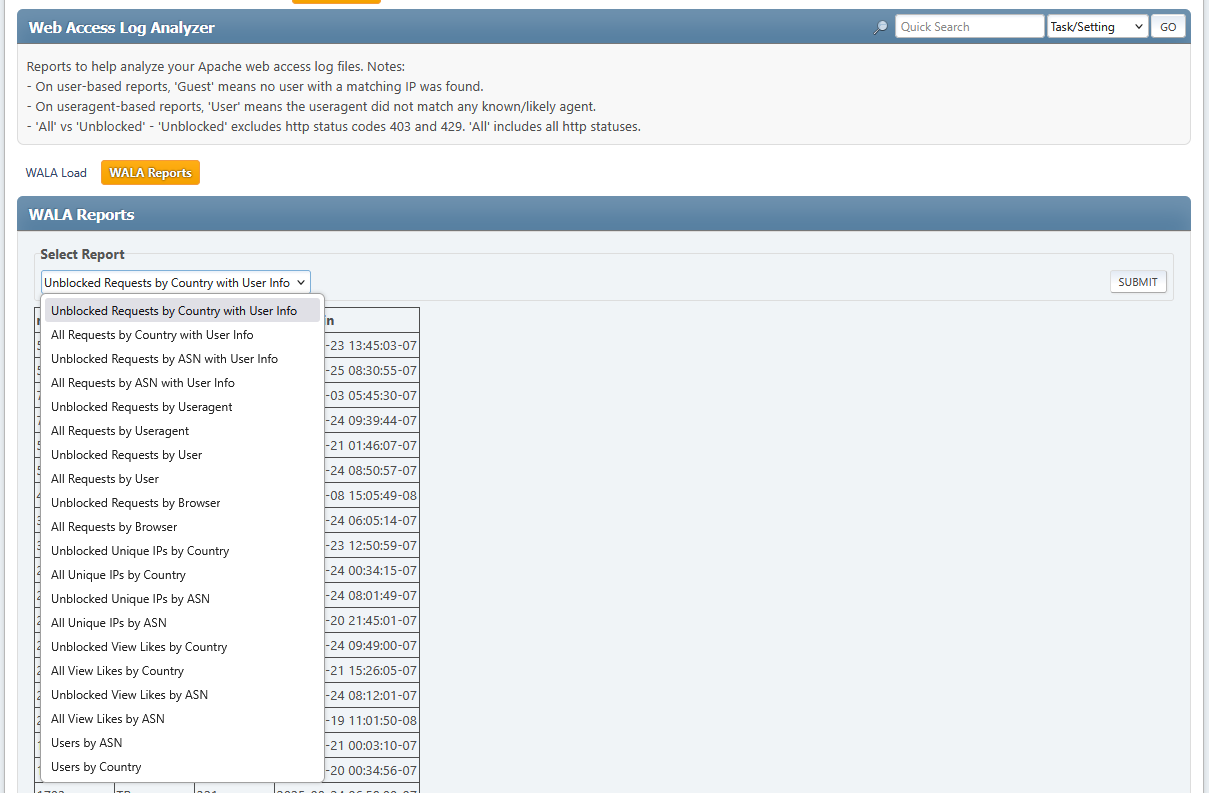
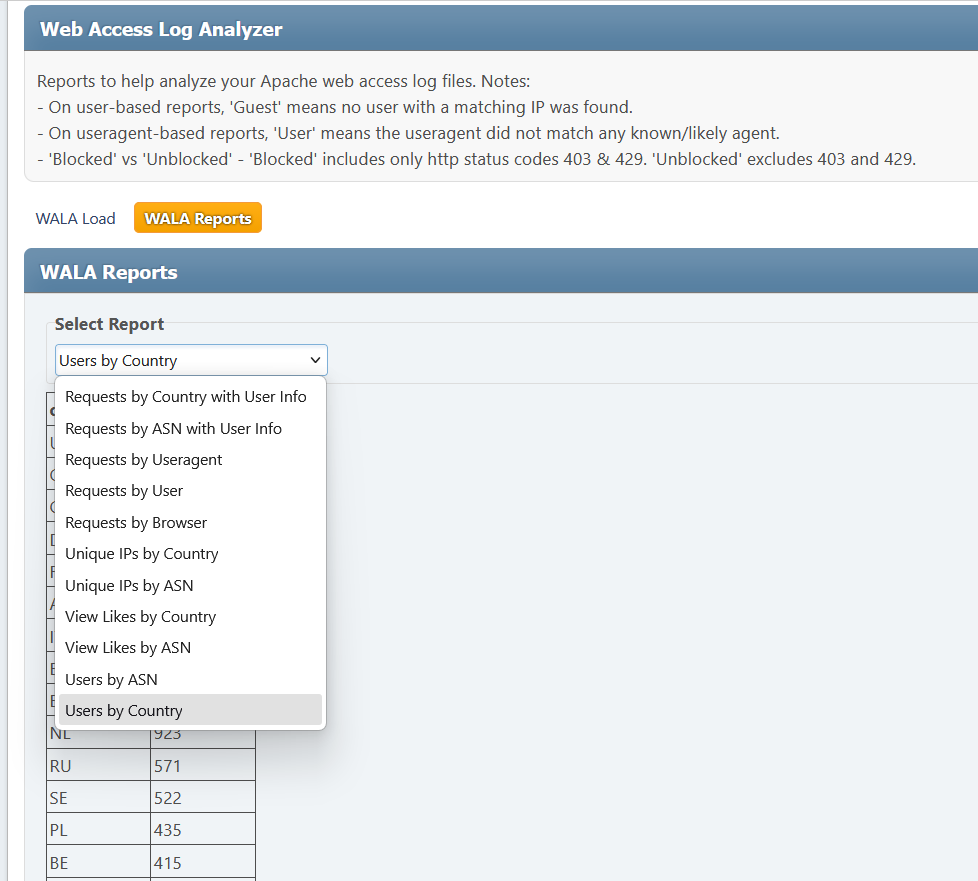
New screenshots

Changed region(s): [[0.0, 0.0, 1.0, 1.0]]

diff --git a/README.md b/README.md
@@ -5,7 +5,7 @@ The goal is to provide insight into the source and nature of your web traffic.  
 
 This uses a very simple load-report approach, intended for a point-in time analysis.  If things fall out of date, you just reload them.
 
-Twenty standard reports are provided.  The database is simple enough that you can expand upon the reports yourself, writing your own queries.  Since all tables used in the report are separate from the SMF core tables, reporting & tweaking is safe and straightforward.  All you need is access to the tables directly within any query tool, such as adminer or phpmyadmin.
+Eleven standard reports are provided.  The database is simple enough that you can expand upon the reports yourself, writing your own queries.  Since all tables used in the report are separate from the SMF core tables, reporting & tweaking is safe and straightforward.  All you need is access to the tables directly within any query tool, such as adminer or phpmyadmin.
 
 Although it would be best to perform this analysis on a test copy of your SMF forum, if one is not available, it is safe to run on your production site.
 
